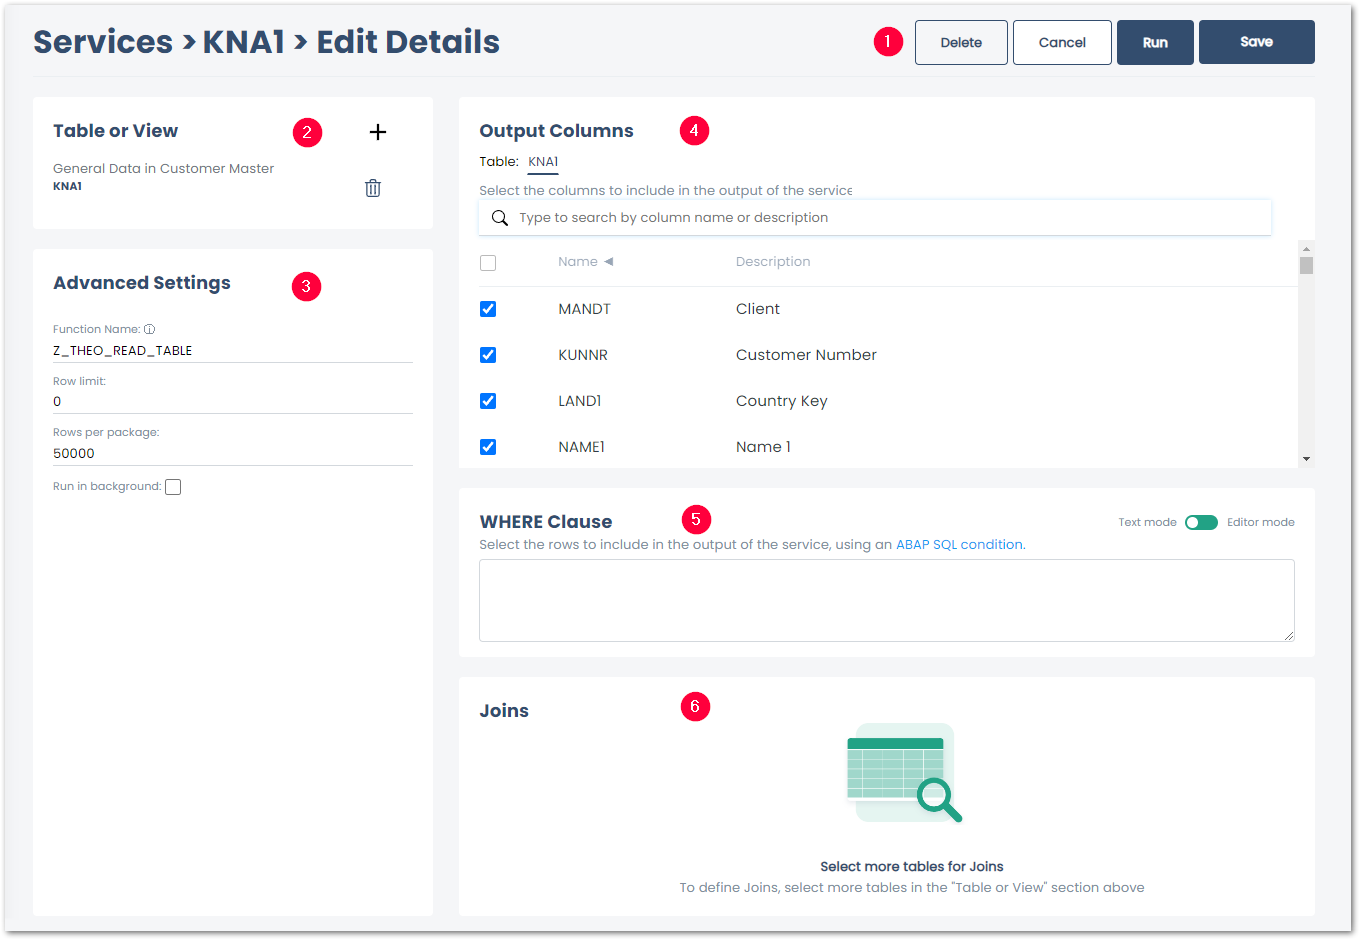
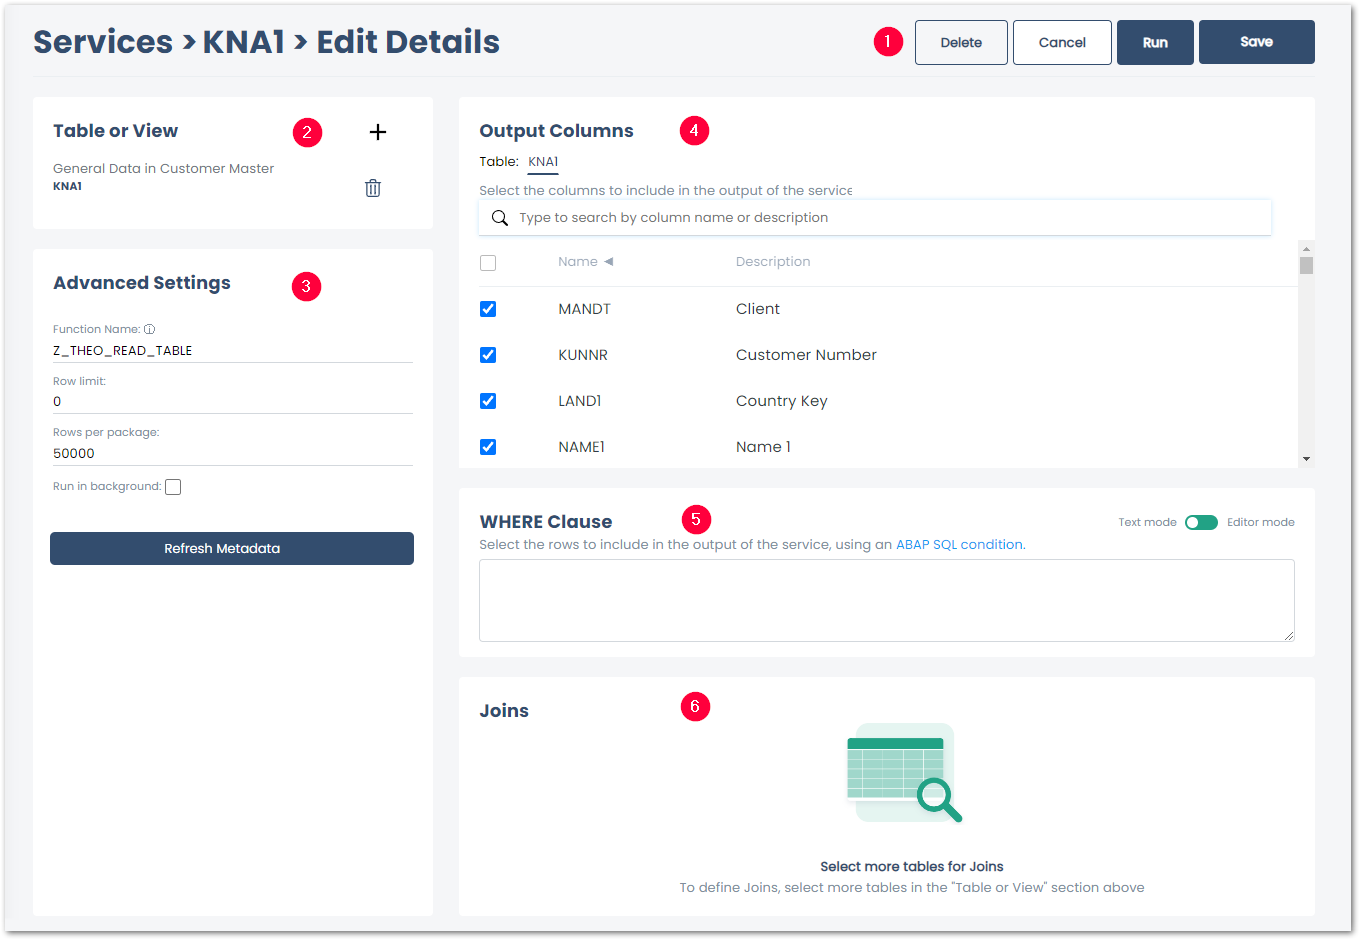
refresh table metadata added

diff --git a/projects/yunio/docs/documentation/tables-and-views/settings.md b/projects/yunio/docs/documentation/tables-and-views/settings.md
@@ -58,7 +58,7 @@ S_TABU_NAM ACTVT=03; TABLE=ENLFDIR
 #### Row Limit
 Specifies the maximum number of extracted records. 0 extracts the entire table.
 
-#### Rows per Package
+#### Rows per package
 The extracted data is be split into packages of the defined size. The default value is 50000 lines.<br>
 A package size between 20000 and 50000 is advisable for large amounts of data. 0 means no packaging. 
 Not using packaging can lead to an RFC timeout for large data extracts.
@@ -74,6 +74,15 @@ Activate the setting **Run in background** for long-running extractions with a l
 
 !!! tip
     The extraction jobs can be found in the SAP JobLog (**SM37**) under the JobName *theo_read_table*.
+
+#### Refresh metadata
+A new lookup is performed on the selected table(s). 
+Existing mappings and field selections are kept, which is not the case when the table is added again.
+Use this function to resolve data inconsistencies that can occur in the following situations:
+
+- the structure of the source table has been changed in SAP
+- another SAP source system has been connected
+- the SAP source system has been updated
 
 ### Output Columns
 

diff --git a/projects/yunio/docs/documentation/tables-and-views/create-a-table-service.md b/projects/yunio/docs/documentation/tables-and-views/create-a-table-service.md
@@ -24,8 +24,8 @@ The settings of the {{ table }} {{ component }} open.
 
 The following options are available to filter data, add data from other tables, etc:
 
-1. Optional: Join two or more tables and extract the result of the join. For more information, see [Table Joins](table-join.md).
-2. Select the [output columns](settings.md/#output-columns) you want to extract. By default all columns are selected. Deselect the columns you do not want to extract.
+1. Select the [output columns](settings.md/#output-columns) you want to extract. By default all columns are selected. Deselect the columns you do not want to extract. 
+2. Optional: Join two or more tables and extract the result of the join. For more information, see [Table Joins](table-join.md).
 3. Optional: Define a [WHERE clause](where-clause.md) to filter table records. By default all data is extracted.
 4. Optional: Edit the [Advanced Settings](settings.md/#advanced-settings) to define how the data is extracted from SAP.
 5. Click **[Run]** to check the results, see [Running Services in yunIO](../run-services.md/#run-services-in-yunio).
